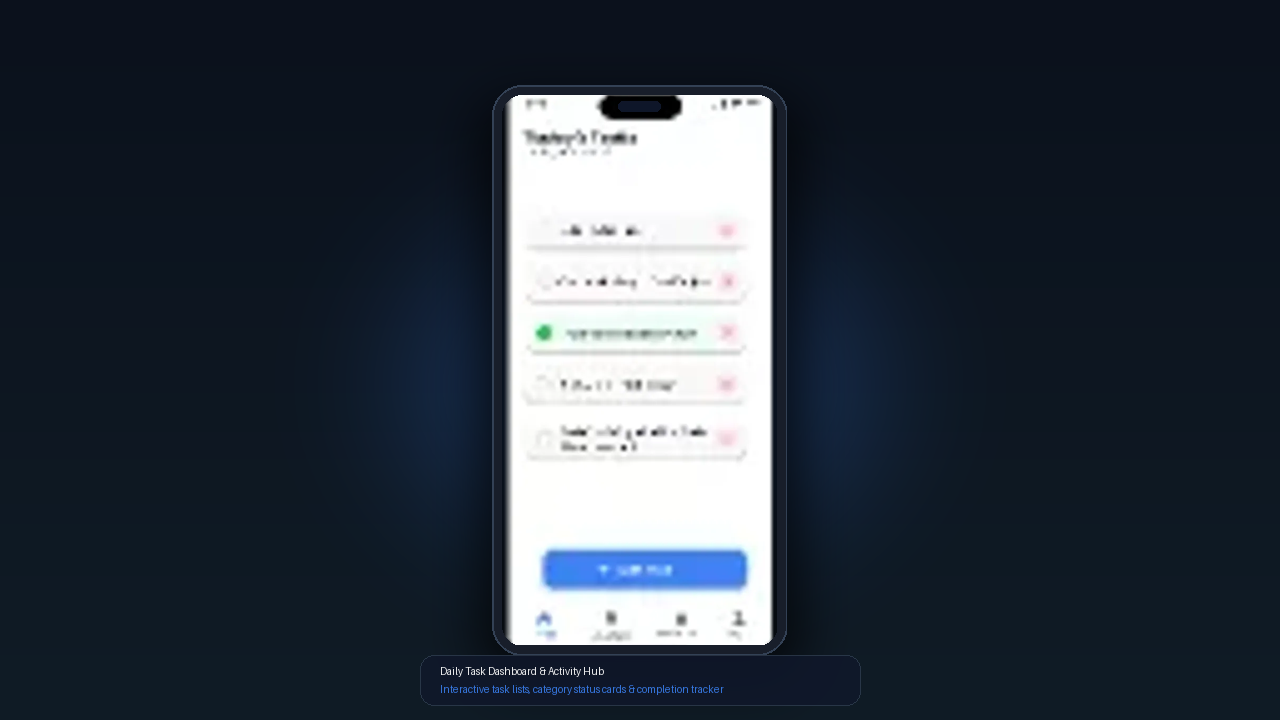
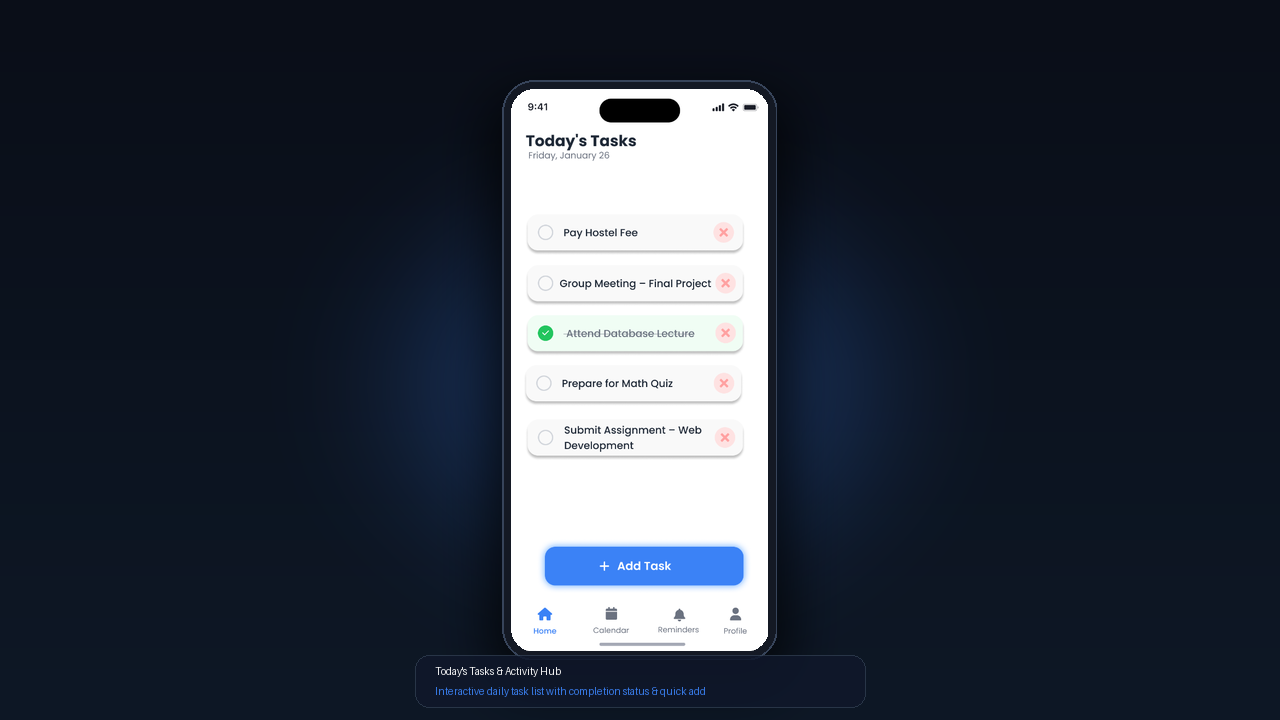
feat: implement core portfolio application with interactive components and project assets

Changed region(s): [[0.3438, 0.0917, 0.6562, 1.0], [0.4375, 0.5806, 0.5625, 0.6417], [0.4375, 0.5194, 0.5312, 0.55]]

diff --git a/src/App.jsx b/src/App.jsx
@@ -227,9 +227,10 @@ const projects = [
     images: [
       '/images/project-dailytask.png',
       '/images/dailytask-dashboard.png',
-      '/images/dailytask-timeline.png',
-      '/images/dailytask-details.png',
-      '/images/dailytask-create.png',
+      '/images/dailytask-calendar.png',
+      '/images/dailytask-addtask.png',
+      '/images/dailytask-reminders.png',
+      '/images/dailytask-profile.png',
       '/images/dailytask-onboarding.png'
     ],
     image: '/images/project-dailytask.png',
